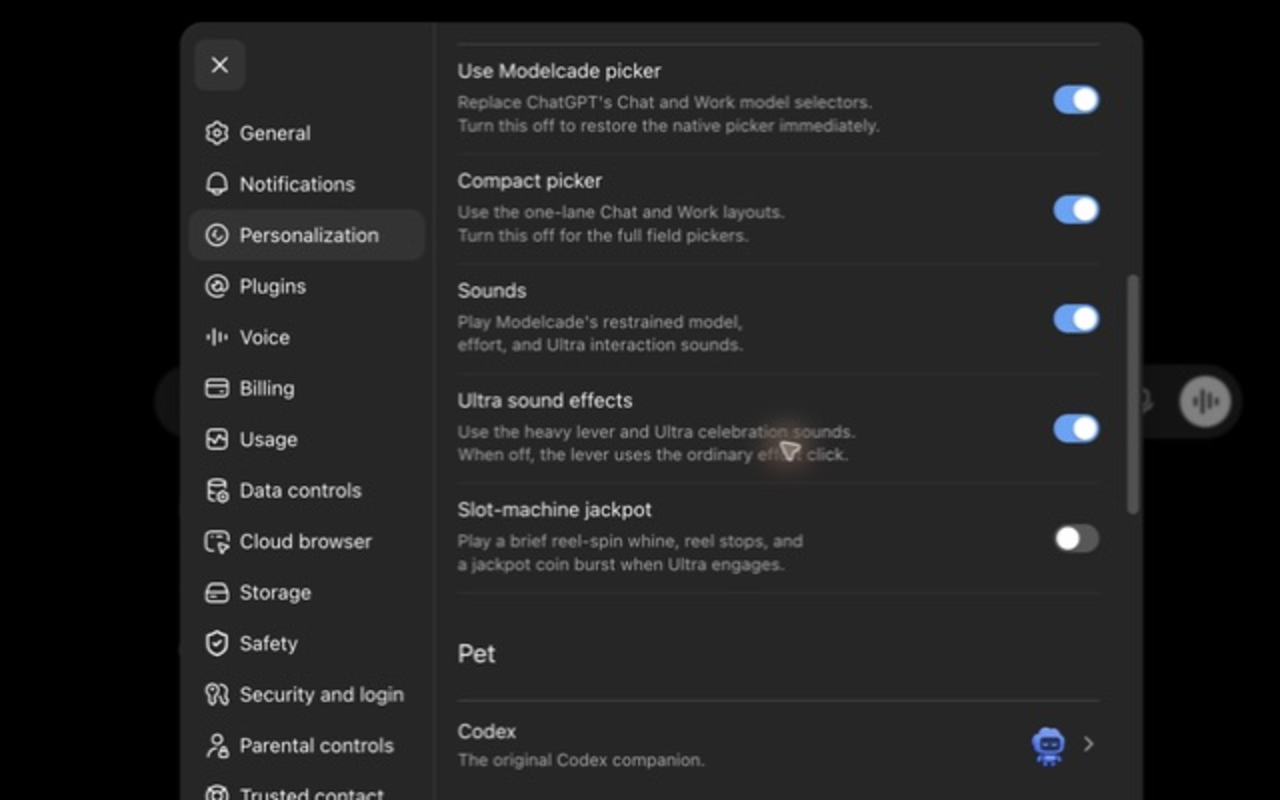
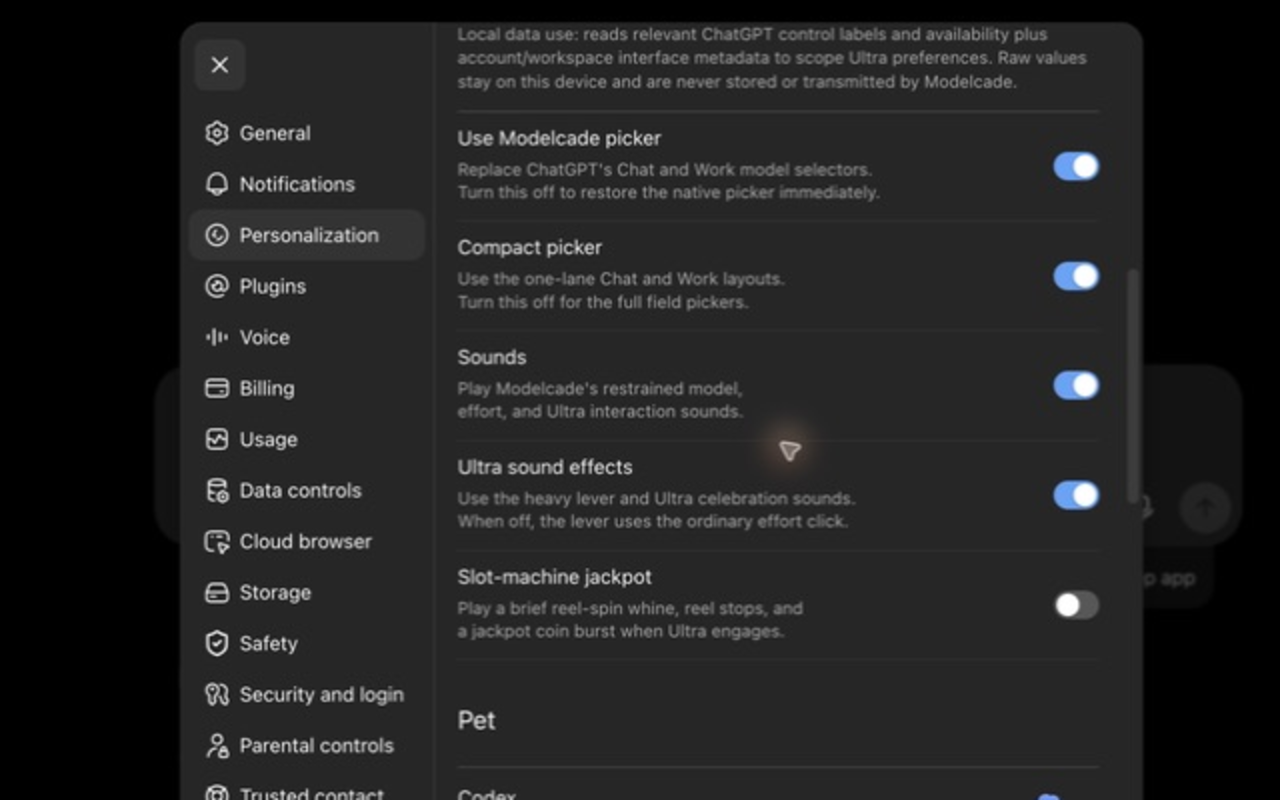
Release Modelcade 1.4.10

diff --git a/content-script.js b/content-script.js
@@ -759,7 +759,11 @@
     const section = document.createElement("section");
     section.className = "rpp-settings-section";
     section.dataset.rppSettingsSection = "true";
-    section.innerHTML = '<div class="rpp-settings-section__head"><h3>Modelcade</h3></div>';
+    section.innerHTML = `
+      <div class="rpp-settings-section__head">
+        <h3>Modelcade</h3>
+        <p class="rpp-settings-disclosure">Local data use: reads relevant ChatGPT control labels and availability plus account/workspace interface metadata to scope Ultra preferences. Raw values stay on this device and are never stored or transmitted by Modelcade.</p>
+      </div>`;
 
     const pickerRow = document.createElement("div");
     pickerRow.className = "rpp-settings-row";

diff --git a/content.css b/content.css
@@ -91,7 +91,8 @@ html.rpp-bridging [data-rpp-bridge-source="true"] * {
 
 .rpp-settings-section__head {
   display: flex;
-  min-height: 60px;
+  min-height: 76px;
+  flex-direction: column;
   align-items: flex-start;
   padding: 12px 0;
   border-bottom: 1px solid var(--border-default, rgba(255, 255, 255, .14));
@@ -102,6 +103,14 @@ html.rpp-bridging [data-rpp-bridge-source="true"] * {
   font: inherit;
   font-size: 18px;
   font-weight: 400;
+}
+
+.rpp-settings-disclosure {
+  max-width: 590px;
+  margin: 6px 0 0;
+  color: var(--text-tertiary, #8f8f8f);
+  font-size: 12px;
+  line-height: 1.4;
 }
 
 .rpp-settings-copy { min-width: 0; flex: 1; }

diff --git a/README.md b/README.md
@@ -90,7 +90,7 @@ Read the complete [privacy policy](PRIVACY.md).
 
 ## Install in Chrome
 
-Until the reviewed Chrome Web Store listing is live, install the signed release source locally:
+Until the reviewed Chrome Web Store listing is live, install the release source locally:
 
 1. Open `chrome://extensions`.
 2. Enable **Developer mode**.
@@ -102,7 +102,7 @@ The release ZIP contains only the Manifest V3 runtime files. Marketing media, QA
 
 ## Maintenance note
 
-This is a local DOM bridge to ChatGPT's official selector. It deliberately avoids brittle React internals, but if ChatGPT renames or restructures those menus, the text-based bridge may need a small selector update. Capability discovery is repeated on every open, uses only enabled native choices, and verifies all delegated changes. If there are not enough supported choices—or a transaction cannot be confirmed—it immediately leaves the custom surface and hands control back to ChatGPT's native picker.
+This is a local DOM bridge to ChatGPT's official selector. It deliberately avoids brittle React internals, but if ChatGPT renames or restructures those menus, the text-based bridge may need a small selector update. Capability discovery is repeated on every open, uses only enabled native choices, and verifies all delegated changes. If there are not enough supported choices, it hands control back to ChatGPT's native picker. If an individual update cannot be confirmed, it rolls back, clears cached capabilities, and asks the user to reopen and retry; disabling Modelcade immediately restores the native picker.
 
 Native menus are made transparent during delegated updates and closed immediately afterward, so only the custom slider remains visible.
 

diff --git a/PRIVACY.md b/PRIVACY.md
@@ -37,7 +37,7 @@ Preferences remain in Chrome's extension storage until they are overwritten, Chr
 
 Modelcade minimizes data by keeping all processing local and requesting only the permissions needed for its single purpose. Material changes to this policy will be documented in this file and dated above.
 
-Modelcade complies with the [Chrome Web Store User Data Policy](https://developer.chrome.com/docs/webstore/program-policies/user-data/), including its Limited Use requirements. Data processed by Modelcade is used only to provide and maintain the user-facing picker. It is not used for advertising, creditworthiness, lending, sale, or transfer to third parties, and it is not made available for humans to read except when required for security, legal compliance, or user-requested support.
+Modelcade's use of information obtained through Chrome and the ChatGPT page adheres to the [Chrome Web Store User Data Policy](https://developer.chrome.com/docs/webstore/program-policies/limited-use), including its Limited Use requirements. Data processed by Modelcade is used only to provide and maintain the user-facing picker. It is not used for advertising, creditworthiness, lending, sale, or transfer to third parties, and it is not made available for humans to read except when required for security, legal compliance, or user-requested support.
 
 ## Contact
 

diff --git a/marketing/STORE_LISTING.md b/marketing/STORE_LISTING.md
@@ -14,6 +14,8 @@
 
 Modelcade turns ChatGPT's model and reasoning controls into a fast magnetic picker without creating a separate ChatGPT client or using an API key.
 
+Local data use: to provide capability-aware choices and keep Ultra preferences separate by account/workspace, Modelcade reads the relevant ChatGPT control labels and availability plus available account identifier or profile-descriptor, plan, route, and workspace-label interface metadata. Raw values stay on the device and are not stored or transmitted by Modelcade.
+
 Open the picker from ChatGPT's unchanged composer control. Drag the white selector between valid reasoning levels, move between the models actually available to your account, or switch to the compact one-lane layout. In ChatGPT Work, clicking an already selected effort toggles the native Standard/Fast state. Ultra gets a deliberately excessive lever, particles, and optional synthesized sound effects.
 
 Modelcade supports both Chat and Work:

diff --git a/RELEASE_NOTES.md b/RELEASE_NOTES.md
@@ -1,4 +1,7 @@
-# Modelcade 1.4.9
+# Modelcade 1.4.10
+
+- Adds a prominent, matching local-data-use disclosure in Modelcade settings and the Web Store description.
+- Normalizes the 128-pixel store icon to Chrome's recommended 96-pixel artwork bounds.
 
 - Adds compact and full capability-aware pickers for Chat and Work.
 - Keeps ChatGPT's composer control visually unchanged and overrides Control-Shift-M only while Modelcade is enabled.

diff --git a/design-qa.md b/design-qa.md
@@ -1,4 +1,4 @@
-# Modelcade 1.4.9 release QA
+# Modelcade 1.4.10 release QA
 
 ## Capability contract
 
